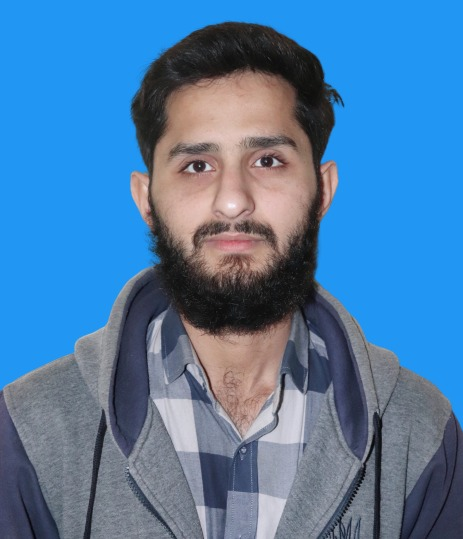
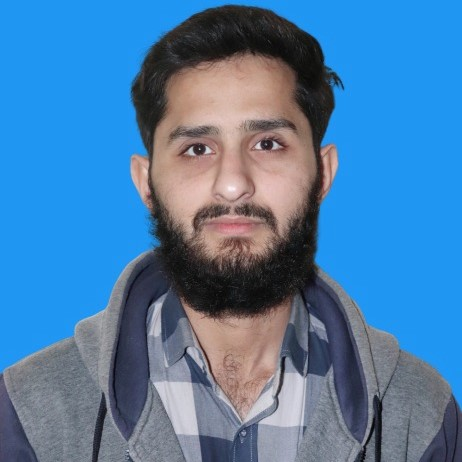
Resume(HTML+CSS) paractise

diff --git a/index.html b/index.html
@@ -1,66 +1,131 @@
 <!DOCTYPE html>
 <html lang="en">
+
 <head>
     <meta charset="UTF-8">
     <meta http-equiv="X-UA-Compatible" content="IE=edge">
     <meta name="viewport" content="width=device-width, initial-scale=1.0">
     <title>Document</title>
 </head>
+<style>
+    body {
+        
+        
+        width: 17cm;
+        padding: 10px;
+        
+    }
+    .all{
+        background-color: blanchedalmond ;
+        margin: 0px;
+        padding: 0px;
+
+    }
+
+    .contacts {
+       
+        position: relative;
+        left: 390px;
+    }
+
+    .start {
+        color: rgb(30, 19, 194);
+        width: 120px;
+    }
+
+    img {
+        border-radius: 50%;
+    }
+
+    h2{
+        color: darkgray;
+
+    }
+    
+</style>
+
 <body>
-<h1><B>    Resume:   </B>
-    <br>
-<img src="./Hassan.jpg" alt=""width="100"> <b style="font-size: 56px;"> Hassan Mehmood </b>
-</h1>
-   <b> A simple and forward looking individual. Seeking a 
-    position in a Company where I can maximize 
-    management, quality assurance, program development, 
-    and training experience.</b>
-    <h3>    Contact:    </h3>
+   <div class="all"> <div class="start">
+        <h1><B> Resume: </B></h1>
+    </div>
+    <img src="./Hassan.jpg" alt="" width="100"> <b style="font-size: 40px; color: darkslategrey ;"> Hassan Mehmood
+    </b>
+    </h1><br>
+    <b> A simple and forward looking individual. Seeking a
+        position in a Company where I can maximize
+        management, quality assurance, program development,
+        and training experience.</b>
+    <div class="contacts">
+        <ul>
+            <li>Call=0333*******</li>
+            <li>mail=***********@gmail.com</li>
+            <li>
+                Karachi 
+            </li>
+        </ul>
+    </div>
+    <hr>
+    <h2><u> PROFESSIONAL GOAL: </u></h2>
+    <b><i> (To gain a business management position
+            in a progressive organization where brilliant
+            management and leadership skills will be demonstrated
+            in overcoming obstacles & competition to
+            achieve the set goals of the company.) </i></b>
+    <h2><u> Education: </u></h2>
+    <h3> University of Karachi </h3>
     <ul>
-        <li>Call=0333*******</li>
-        <li>mail=***********@gmail.com</li>
-        <li><address>Home</address></li>
+        <li>
+            <h4> 2017 - 2019 |<i> Masters in Public Administration </i> </h4>
+        </li>
     </ul>
-<h2>PROFESSI ONAL GOAL:</h2>
-   <b><i> (To gain a business management position
-    in a progressive organization where brilliant
-    management and leadership skills will be demonstrated
-    in overcoming obstacles & competition to
-    achieve  the set goals of the company.) </i></b>
-<h2>Education:</h2>
-    <h3>     University of Karachi    </h3>
-    <ul><li><h4>  2017 - 2019 |<i> Masters in Public Administration </i> </h4></li></ul>
     <h3> Abbottabad University of Science & Technology (AUST) </h3>
-    <ul><li><h4>2015 - 2017 |<i> Bachelors in Commerce </i> </h4></li></ul>
-    <h3>    Bahria College, Karsaz    </h3>
-    <ul><li><h4>2012 - 2014 |<i> Intermediate </i> </h4></li></ul>
-    <h3>   Hamza Public Secondary School   </h3>
-    <ul><li><h4>2010 - 2012 |<i> Matriculation </i> </h4></li></ul>
+    <ul>
+        <li>
+            <h4>2015 - 2017 |<i> Bachelors in Commerce </i> </h4>
+        </li>
+    </ul>
+    <h3> Bahria College, Karsaz </h3>
+    <ul>
+        <li>
+            <h4>2012 - 2014 |<i> Intermediate </i> </h4>
+        </li>
+    </ul>
+    <h3> Hamza Public Secondary School </h3>
+    <ul>
+        <li>
+            <h4>2010 - 2012 |<i> Matriculation </i> </h4>
+        </li>
+    </ul>
 
-    <h2>EXPERIENCE:</h2>
-    <h3> Micromerger (Private) Ltd. 2018-19</h3>       <i>    Data Entry Operator   </i>
-    <ul><li>Worked as a data entry officer of data about polio campaign 
-     and different cases related to polio issues.</li></ul>
+    <h2><u>EXPERIENCE:</u></h2>
+    <h3> Micromerger (Private) Ltd. 2018-19</h3> <i> Data Entry Operator </i>
+    <ul>
+        <li>Worked as a data entry officer of data about polio campaign
+            and different cases related to polio issues.</li>
+    </ul>
 
-    <h3>Loittech Marketing Agency 2017-18</h3>      <i> Data Control Officer</i>
-    <ul><li>Tasked to make graphics for offline layouts. Edited editorial 
-     photos for clients and magazines, and social media posts 
-     Organization of files</li></ul>
-    <h2>    SKILLS:    </h2>   
+    <h3>Loittech Marketing Agency 2017-18</h3> <i> Data Control Officer</i>
+    <ul>
+        <li>Tasked to make graphics for offline layouts. Edited editorial
+            photos for clients and magazines, and social media posts
+            Organization of files</li>
+    </ul>
+    <h2><u> SKILLS: </u></h2>
     <ul>
         <li>Communication </li>
         <li>Leadership </li>
         <li>Teamwork </li>
         <li>Persuasion </li>
-        <li>Time Management</li> 
-        <li>Retentiveness</li> 
+        <li>Time Management</li>
+        <li>Retentiveness</li>
         <li>MS-Ofiice</li>
     </ul>
-    <h2>     PROFESSIONAL INTEREST:     </h2>
+    <h2><u> PROFESSIONAL INTEREST: </u></h2>
     <ul>
         <li> Explore Latest Cellular Technology </li>
         <li>Innovative Automobile Solutions </li>
         <li>Event Management</li>
         <li>Participation in Welfare Activities </li>
-    </ul>
+    </ul></div>
+
 </html>
